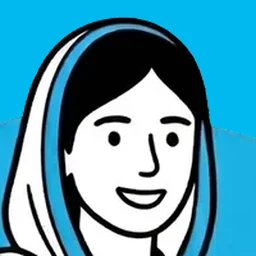
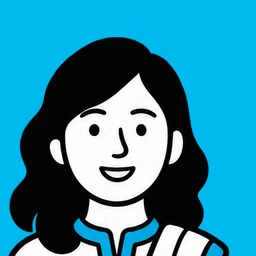
New onboarding illustrations, new Sana and Usman photos, repo tidied
- Onboarding slides and the splash preload use the new Plan, Negotiate and
  Pay After illustrations; slide 1 says "Type what you need", Urdu matched.
- Sana's photo comes from the new female character, so she and Ayesha are
  distinct; Usman's crop is lower so his cap is whole. scripts/make-avatars.py
  regenerates all four from the art.
- 23 images nothing referenced move from frontend/assets to design/art, so the
  app's assets are only what it ships.
- Local builds, logs, the logo zip, handoff notes and sandbox credentials live
  in a gitignored local/ folder; the README maps the folders.

diff --git a/frontend/screens/OnboardingScreen.tsx b/frontend/screens/OnboardingScreen.tsx
@@ -36,21 +36,21 @@ type Props = { navigation: StackNavigationProp<RootStackParamList, "Onboarding">
 const SLIDES = [
   {
     key: "1",
-    illustration: require("../assets/images/Illustration1.webp"),
+    illustration: require("../assets/images/OnboardingPlan.webp"),
     titleWhite: "Let Doyo ",
     titleAccent: "Do It",
-    body: "Say what you need in English, Urdu or Roman Urdu. Doyo plans the job.",
+    body: "Type what you need in English, Urdu or Roman Urdu. Doyo plans the job.",
   },
   {
     key: "2",
-    illustration: require("../assets/images/Illustration7.webp"),
+    illustration: require("../assets/images/OnboardingNegotiate.webp"),
     titleWhite: "Doyo ",
     titleAccent: "Negotiates",
     body: "Nearby workers send offers. Doyo bargains for you and never goes over your limit.",
   },
   {
     key: "3",
-    illustration: require("../assets/images/Illustration2.webp"),
+    illustration: require("../assets/images/OnboardingPayAfter.webp"),
     titleWhite: "Pay ",
     titleAccent: "After",
     body: "Link PayPal once. You pay the final price only when the work is done.",

diff --git a/frontend/i18n/translations.ts b/frontend/i18n/translations.ts
@@ -60,8 +60,8 @@ export const translations: Record<Language, Record<string, string>> = {
     // ---- Onboarding ----
     "Let Doyo ": "Doyo کو ",
     "Do It": "کرنے دیں",
-    "Say what you need in English, Urdu or Roman Urdu. Doyo plans the job.":
-      "اپنی ضرورت انگریزی، اردو یا رومن اردو میں بتائیں۔ Doyo کام کا منصوبہ بناتا ہے۔",
+    "Type what you need in English, Urdu or Roman Urdu. Doyo plans the job.":
+      "اپنی ضرورت انگریزی، اردو یا رومن اردو میں لکھیں۔ Doyo کام کا منصوبہ بناتا ہے۔",
     Negotiates: "سودا طے کرتا ہے",
     "Nearby workers send offers. Doyo bargains for you and never goes over your limit.":
       "قریبی ورکرز آفر بھیجتے ہیں۔ Doyo آپ کے لیے بھاؤ تاؤ کرتا ہے اور آپ کی حد سے کبھی اوپر نہیں جاتا۔",

diff --git a/frontend/screens/SplashScreen.tsx b/frontend/screens/SplashScreen.tsx
@@ -32,8 +32,9 @@ import { fontStyles } from "../styles/fonts";
 type Props = { navigation: StackNavigationProp<RootStackParamList, "Splash"> };
 
 const ILLUSTRATION_ASSETS = [
-  require("../assets/images/Illustration1.webp"),
-  require("../assets/images/Illustration2.webp"),
+  require("../assets/images/OnboardingPlan.webp"),
+  require("../assets/images/OnboardingNegotiate.webp"),
+  require("../assets/images/OnboardingPayAfter.webp"),
   require("../assets/images/Illustration3.webp"),
   require("../assets/images/Illustration4.webp"),
 ];

diff --git a/scripts/make-avatars.py b/scripts/make-avatars.py
@@ -1,0 +1,37 @@
+"""Crops the simulated workers' profile photos from the character art.
+
+Writes backend/src/avatars/sim-<name>.webp (served by /api/worker-photo) and the website demo's
+copies. Run from the repo root: python scripts/make-avatars.py
+"""
+import pathlib
+import shutil
+
+from PIL import Image
+
+ROOT = pathlib.Path(__file__).resolve().parent.parent
+APP_ART = ROOT / "frontend/assets/images"
+DESIGN_ART = ROOT / "design/art"
+OUT = ROOT / "backend/src/avatars"
+SITE = ROOT / "website/assets/avatars"
+
+# Source image and the square around the face, in that image's pixels.
+CROPS = {
+    "sim-bilal": (APP_ART / "Illustration4.webp", (206, 50, 516, 360)),
+    "sim-ayesha": (APP_ART / "Illustration4.webp", (760, 120, 1060, 420)),
+    "sim-sana": (DESIGN_ART / "DoyoFemaleAvatar.png", (330, 40, 730, 440)),
+    "sim-usman": (DESIGN_ART / "BarberServicesWorkerIcon.png", (330, 20, 930, 620)),
+}
+ACCENT = (0, 186, 240, 255)
+
+OUT.mkdir(exist_ok=True)
+for name, (source, box) in CROPS.items():
+    face = Image.open(source).convert("RGBA").crop(box).resize((256, 256), Image.LANCZOS)
+    tile = Image.new("RGBA", (256, 256), ACCENT)
+    tile.alpha_composite(face)
+    tile.convert("RGB").save(OUT / f"{name}.webp", "WEBP", quality=88)
+
+# The website demo shows Ayesha and Sana.
+SITE.mkdir(exist_ok=True)
+for name in ("ayesha", "sana"):
+    shutil.copy(OUT / f"sim-{name}.webp", SITE / f"{name}.webp")
+print("avatars written to", OUT)

diff --git a/README.md b/README.md
@@ -110,11 +110,15 @@ chat. Guardrails:
 ## Architecture
 
 ```
-frontend/   Expo SDK 57 · React Native 0.86 · MapLibre · expo-updates
-backend/    Node 24 · TypeScript · Fastify · WebSockets · node:sqlite · zod
-dashboard/  Operations dashboard · React · Vite · AG Studio (builds into website/dashboard)
+frontend/   The app · Expo SDK 57 · React Native 0.86 · MapLibre · expo-updates
+backend/    API, booking agent, PayPal, update server · Node 24 · Fastify · WebSockets · node:sqlite
+dashboard/  Operations dashboard · React · Vite · AG Studio (built into website/dashboard by CI)
 website/    Marketing site · GSAP
+design/art/ Source art not shipped in the app (originals for the worker photos and icons)
+docs/       Devpost write-up, illustration prompts
+scripts/    version-assets.py (website cache-busting), make-avatars.py (worker photos)
 .github/    Workflows: deploy backend, publish app update, publish website, build APK
+local/      Gitignored: local builds, logs and credentials
 ```
 
 - **Realtime:** one WebSocket per client; job rooms and the worker market are topics. No polling.

diff --git a/docs/illustration-prompts.md b/docs/illustration-prompts.md
@@ -2,7 +2,7 @@
 
 ## The existing style
 
-Every illustration in `frontend/assets/images/Illustration*.webp` shares one language:
+Every illustration in `frontend/assets/images/` (and unused source art in `design/art/`) shares one language:
 
 - Flat 2D vector, no gradients, no shading, no texture.
 - Thick, even, black outlines with rounded joins and caps. Interior detail lines are slightly thinner.
